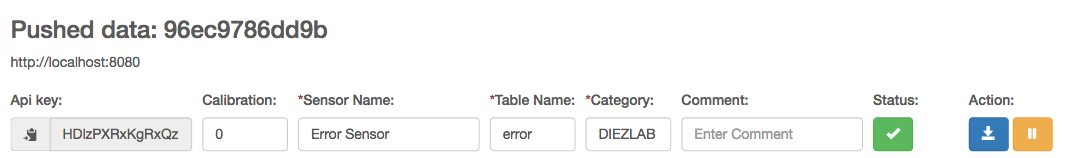
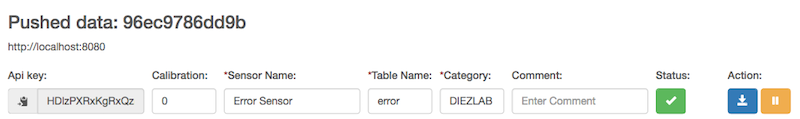
improved config image size

diff --git a/doc/docker/Readme.md b/doc/docker/Readme.md
@@ -1,0 +1,172 @@
+# Online raspberry pi temperature sensors
+
+This web app is a frontend intended to run on a raspberry pi equipped with
+temperature sensors that are addressed via the 1 wire protocol.
+The hard-and software setup was inspired by [ModMyPi](https://www.modmypi.com/blog/ds18b20-one-wire-digital-temperature-sensor-and-the-raspberry-pi). Thanks a lot for that great tutorial.
+
+Check out [the GitLab tags page](https://gitlab.com/Thawn/pitemplog/tags) for releases and sd-card image download links.
+
+Jump directly to:
+* [Hardware setup](#hardware)
+* [Configuration](#config)
+
+## Features
+* Data logged in partitioned mysql database -> fast access even if millions of data points are stored
+* Responsive web frontend based on bootstrap and jQuery -> optimized for desktop and mobile clients
+* Adaptive charts powered by amCharts javascript library
+* Export charts as png or svg
+* Download selected (or all) data as CSV
+* Static html pages and javascript generated by jekyll -> good performance because most code is run in client browser not on raspberry pi
+* Easy software setup via ready to go raspbian-lite-based image
+* Simple and expandable hardware setup
+* Low power consumption by raspberry pi
+* Flexible and easy setup of data sharing between several raspi sensor hubs so that all data can be visualized via one web frontend and data is backed up between several raspberry pi systems.
+* Backup of data and configuration via rsync to centralized server possible with minimal configuration effort via backup scripts.
+
+## Screen shots
+
+### Overview Page for Multiple Sensors
+![Overview Page for Multiple Sensors](https://gitlab.com/Thawn/pitemplog/raw/master/doc/Overview%20page.png =500x)
+
+### Frontend Desktop
+![Frontend Desktop](https://gitlab.com/Thawn/pitemplog/raw/master/doc/Example%20Screen.png)
+
+### Frontend Mobile
+![Frontend Mobile](https://gitlab.com/Thawn/pitemplog/raw/master/doc/Example%20mobile.png)
+
+### Frontend Tablet
+![Frontend Tablet](https://gitlab.com/Thawn/pitemplog/raw/master/doc/Example%20Tablet.png)
+
+see also the [configuration screenshot](#configuration-screenshot).
+
+## Hardware setup<a name="hardware"></a>
+### Material
+
+![parts](https://gitlab.com/Thawn/pitemplog/raw/master/doc/parts%20overview.jpg)
+
+* Raspberrypi 2 or 3 Model B
+* SD card with at least 2GB capacity
+* External usb harddisk (or a usb stick that uses wear leveling). If you don't want to use an external harddisk use the "nousb" image.
+* One-wire digital thermometer(s): DS 18B20
+* 4.7K Ohm resistor
+* 3x jumper contacts (or 2x 2W 245 PSK plug)
+* min 2x 3-pin matching plug and socket (you'll need one more set than the number of sensors you want to connect, i.e for two sensors you need three, for three sensors four etc.)
+* Cable with three wires
+* soldering equipment
+* shrink-on tubing
+
+### Assembly
+All soldering points should be insulated with individual shrink-on tubings. Then
+add one large shrink-on tubing around to protect and keep the wires together.
+1. Connect one of the 3-pin plugs to the raspi (see [picture below](#connect-to-raspi)):
+   1. wire 1 (black) to ground (PIN9 on the [Raspi GPIO pins](https://pinout.xyz))
+   2. wire 2 (brown) to BCM4/GPIO4 (PIN 7)
+   3. wire 3 (red) to 3.3V Power (PIN 1)
+2. Add the 4.7K Ohm resistor between 3.3V and BCM4/GPIO4 (PIN1 and PIN7) 
+3. Solder the wires of the cable to the thermometer (see [picture below](#sensor-pinout) Note: In the front view of the sensor (on the left of the image) the pins are facing towards you). In this example, the cable has white green and red wires. For example:
+   1. white to pin 1: GND
+   2. green to pin 2: DQ
+   3. red to pin 3: V<sub>DD</sub>
+4. solder the other end of the cable to the 3-pin socket:
+   1. White to pin 1 (corresponds to black wire on the plug)
+   2. green to pin 2 (corresponds to brown lead on the plug)
+   3. red to pin 3 (corresponds to red lead on the plug)
+4. solder the wires of another plug parallel to the socket (see [picture below](#assembled-sensor)):
+   1. black to pin 1
+   2. brown to pin 2
+   2. red to pin 3 
+
+Now you can connect many thermometers to the raspi as each thermometer will add
+its own plug such that all thermometers are connected in parallel.
+Theoretically, you can add as many thermometers as you like (at least several
+tens of thermometers should work) and the cables can be tens or even more than a
+hundred meters long. In my setup I successfully tested up to 5 thermometers with
+a total of 50 meters of cable. However, at some point too much cable will
+deteriorate the signal so much that thermometers are not found any more or
+randomly disappear. See [here for recommendations on setting up large sensor networks](https://www.maximintegrated.com/en/app-notes/index.mvp/id/148).
+Check out the [picture of the final assembly](#final-assembly).
+
+#### Connect to Raspi
+![connect to raspi](https://gitlab.com/Thawn/pitemplog/raw/master/doc/connect%20to%20raspi.jpg)
+
+#### Sensor Pinout
+![sensor pinout](https://gitlab.com/Thawn/pitemplog/raw/master/doc/sensor%20pinout.png)
+
+Note: In the front view of the sensor (left) the pins are facing towards you.
+
+#### Assembled Sensor
+![assembled sensor](https://gitlab.com/Thawn/pitemplog/raw/master/doc/assembled%20sensor.jpg)
+
+#### Final Assembly
+![final assembly](https://gitlab.com/Thawn/pitemplog/raw/master/doc/final%20assembly.jpg)
+
+## Configuration<a name="config"></a>
+* In a browser enter the ip address or the hostname of the raspi
+* If this is the first time that you contact the raspi, you will be redirected to the configuration page. If you are not redirected, click on "Configuration" in the top right corner.
+
+### Local sensors
+If there are sensors attached directly to the raspi, there will be empty configuration fields for each sensor.
+
+Just add a name, a database table and a category to each sensor and hit the save button for each senosr (or just press enter while the cursor is in a configuration field) or hit "Save entire configuration".
+
+Now the raspi will start logging data from each sensor every minute.
+
+#### Screenshot
+[Database and Sensor Configuration](https://gitlab.com/Thawn/pitemplog/raw/master/doc/Database%20and%20Sensor%20Configuration.png?inline=false)
+
+### External sources/targets
+There are three ways to exchange data with external sources/targets:
+
+#### Fetch data:
+The server will actively fetch data from an external source every minute. The external source can be another pitemplog box or any source providing a web interface or api. In the latter case, you need to provide a parser that scrapes the data from the external source. An example parser for mibi sensors (mibi.php) is provided in the parsers directory.
+
+To configure fetching data, enter the URL and a name for the external sensor box. If the external box requires a username and password, you can enter those as well.
+If the external source is not a pitemplog box, you must choose a parser (a parser for mibi sensors is provided).
+
+#### Send data:
+The server will send temperature data from locally attached sensors to an remote pitemplog server in regular intervals. Before sending data, the remote server needs to be configured in order to be able to receive the data. The configuration happens almost entirely automatically. For security reasons, the only manual step required is to copy the api key generated by the remote server to the configuration here.
+
+
+To configure sending data, enter the URL and a name for a central server that is running pitemplog. Once the connection is set up, the temperature data of all local sensors will be regularly uploaded to the server.
+
+After you have saved the configuration, you will be redirected to the remote servers config page where you can copy the api key and paste it into the senders push server configuration. Without correct api key, no data will be stored by the central server.
+
+
+#### Receive data:
+The server will passively wait for input from an external source. In order to be able to receive data, this server must be properly configured. If the external source is a pitemplog box, the configuration is done automatically by the sender (see "Send data" above). If you want to send data to this sever from a different source (i.e. an arduino sensor), then you can configure the sensor id, name, table and category here.
+
+To configure receiving data, configure the source url (or unique id of source), the source name, the sensor id (must be unique and start with "custom-"), name, table and category. Once you are done, an api key will be automatically generated and you need to copy that to the sender in order to prevent anyone from pushing data to the server.
+
+##### Screenshot:
+![Receive Push Configuration](https://gitlab.com/Thawn/pitemplog/raw/master/doc/push_config.png)
+
+The external source must provide the data to "http://pitemplog.domain/data.php" in the following structure (all arrays must be of the same length):
+<dl>
+	<dt>"apikey":<dt>
+	<dd>"api key from the server config page"</dd>
+	<dt>"sensor":</dt>
+	<dd>[array of sensor id strings]</dd>
+	<dt>"time":</dt>
+	<dd>[array of 10 digit unix timestamps]</dd>
+	<dt>"temp":</dt>
+	<dd>[array of floating point temperatures in ˚C]</dd>
+</dl>
+
+#### Screenshot
+![External Source/Target Configuration](https://gitlab.com/Thawn/pitemplog/raw/master/doc/external_source_target_config.png)
+
+### Database
+In case you would like to change the database configuration: this is done via the environment variables:
+* `DB_HOST` (hostname of the database server)
+* `DB_DB` (name of the database)
+* `DB_USER` (a user that has access to the database)
+* `DB_PW` (the users database password). 
+
+
+## ToDo
+
+ - [ ] Write selenium tests.
+ - [ ] Add support for vibration sensors
+ - [ ] Add support for LoRaWAN sensors
+
+

diff --git a/Readme.md b/Readme.md
@@ -4,7 +4,7 @@ This web app is a frontend intended to run on a raspberry pi equipped with
 temperature sensors that are addressed via the 1 wire protocol.
 The hard-and software setup was inspired by [ModMyPi](https://www.modmypi.com/blog/ds18b20-one-wire-digital-temperature-sensor-and-the-raspberry-pi). Thanks a lot for that great tutorial.
 
-Check out [the tags page](https://gitlab.com/Thawn/pitemplog/tags) for releases and sd-card image download links.
+Check out [the GitLab tags page](https://gitlab.com/Thawn/pitemplog/tags) for releases and sd-card image download links.
 
 Jump directly to:
 * [Hardware setup](#hardware)
